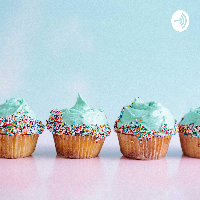
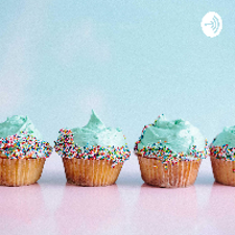
resize image

diff --git a/style.css b/style.css
@@ -1062,13 +1062,10 @@ h4 {
 
 @media(max-width:767px) {
     img{
-        margin-left: 50px;
+        margin-left: 30px;
     }
 }
 
-@media(min-width:767px) {
-    img{
-        width: 400px;
-        height: 400px;
-    }
-}
+
+
+
